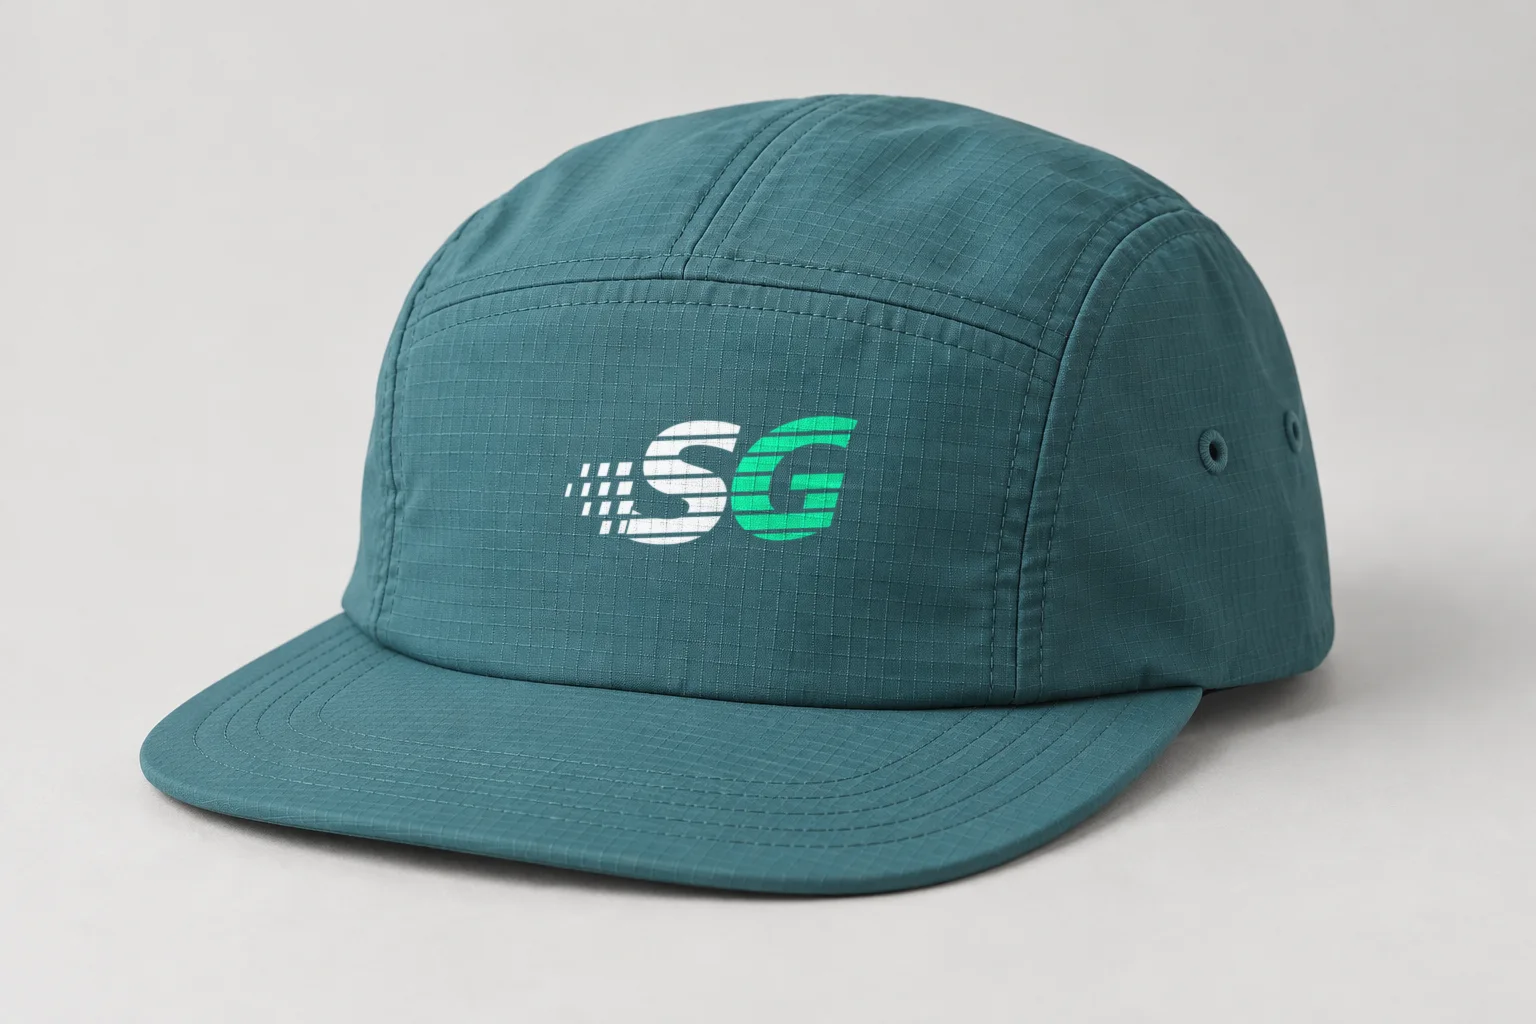
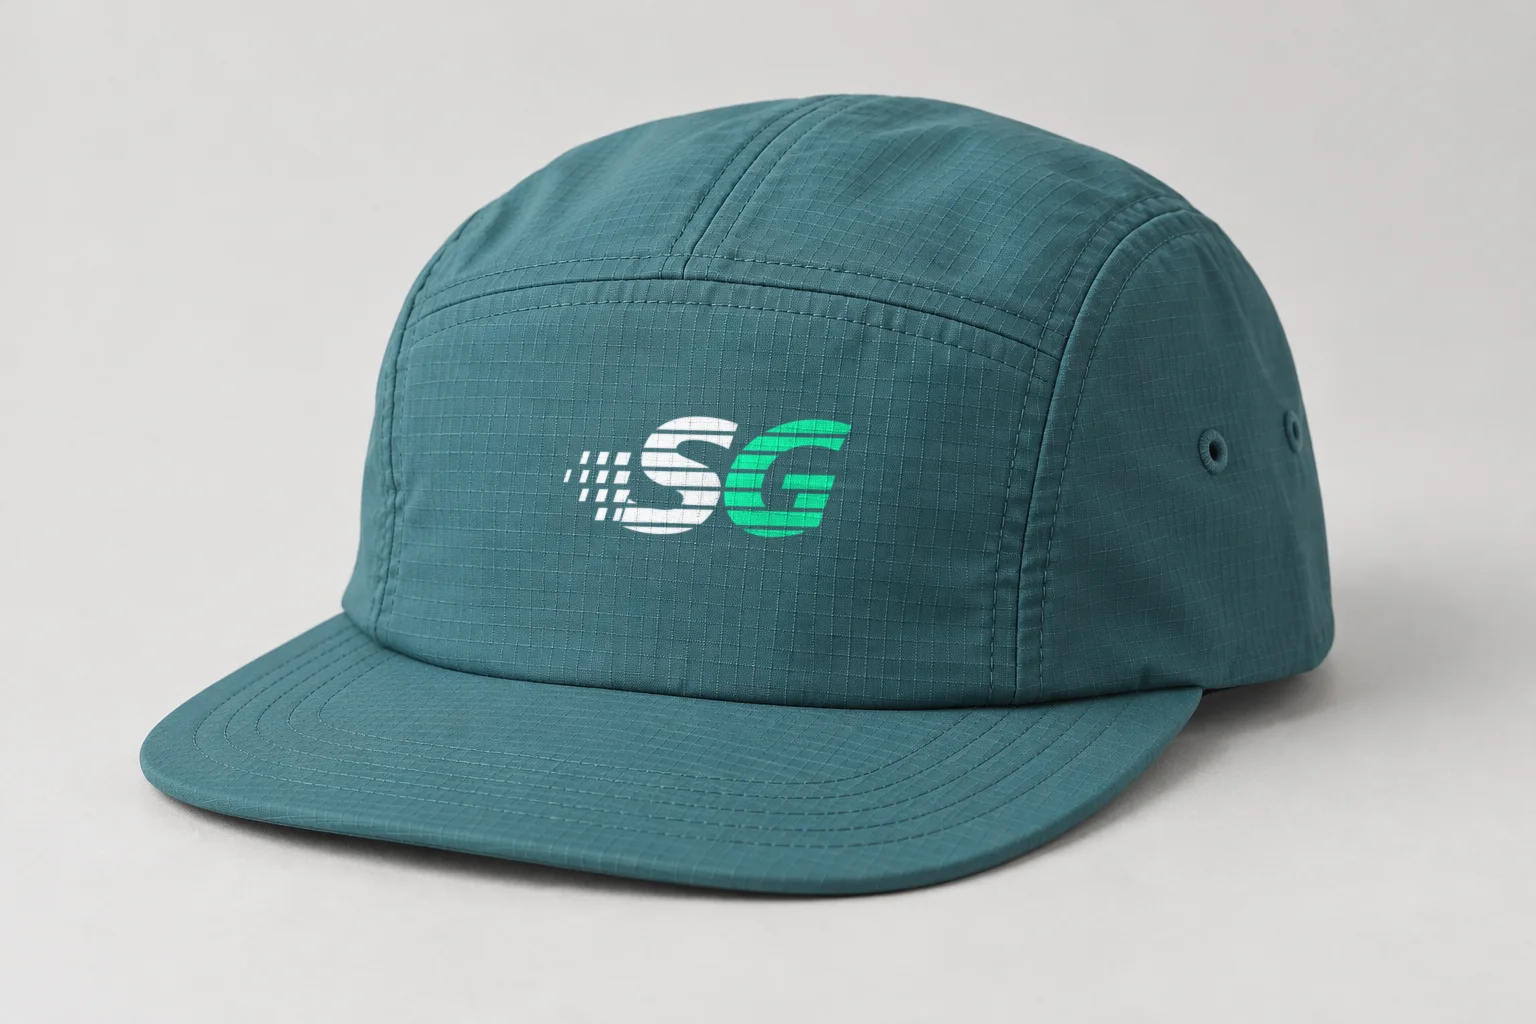
Sport Guardian: cap mark centred in the stitched front panel and level with the fabric grid

Changed region(s): [[0.375, 0.4062, 0.5625, 0.5312]]

diff --git a/tools/sport-guardian/print_photo.py b/tools/sport-guardian/print_photo.py
@@ -57,9 +57,11 @@ def rot(im, a): return im.rotate(a, expand=True, resample=Image.BICUBIC)
 
 def cap():
     base = Image.open(os.path.join(P, 'cap-base.png'))
-    art = rot(mark(), 2)  # the mark alone, centred on the front panel (2026-10-13, her request)
-    # centred between the top seam and the brim
-    stamp(base, art, 712, 482, 300, strength=.95, blur=.5).save(os.path.join(P, 'cap.png'))
+    # the mark alone, centred in the stitched front panel and level with it (2026-10-13, her request): the panel runs
+    # from the left seam (x 400) to the right seam (x 1015) and from the top seam to the brim; the cap is turned a
+    # little, so the print follows the ripstop grid, about 1.5 degrees down to the right
+    art = rot(mark(), -1.5)
+    stamp(base, art, 707, 476, 290, strength=.95, blur=.5).save(os.path.join(P, 'cap.png'))
 
 def decks():
     base = Image.open(os.path.join(P, 'decks-base.png')).convert('RGB')
